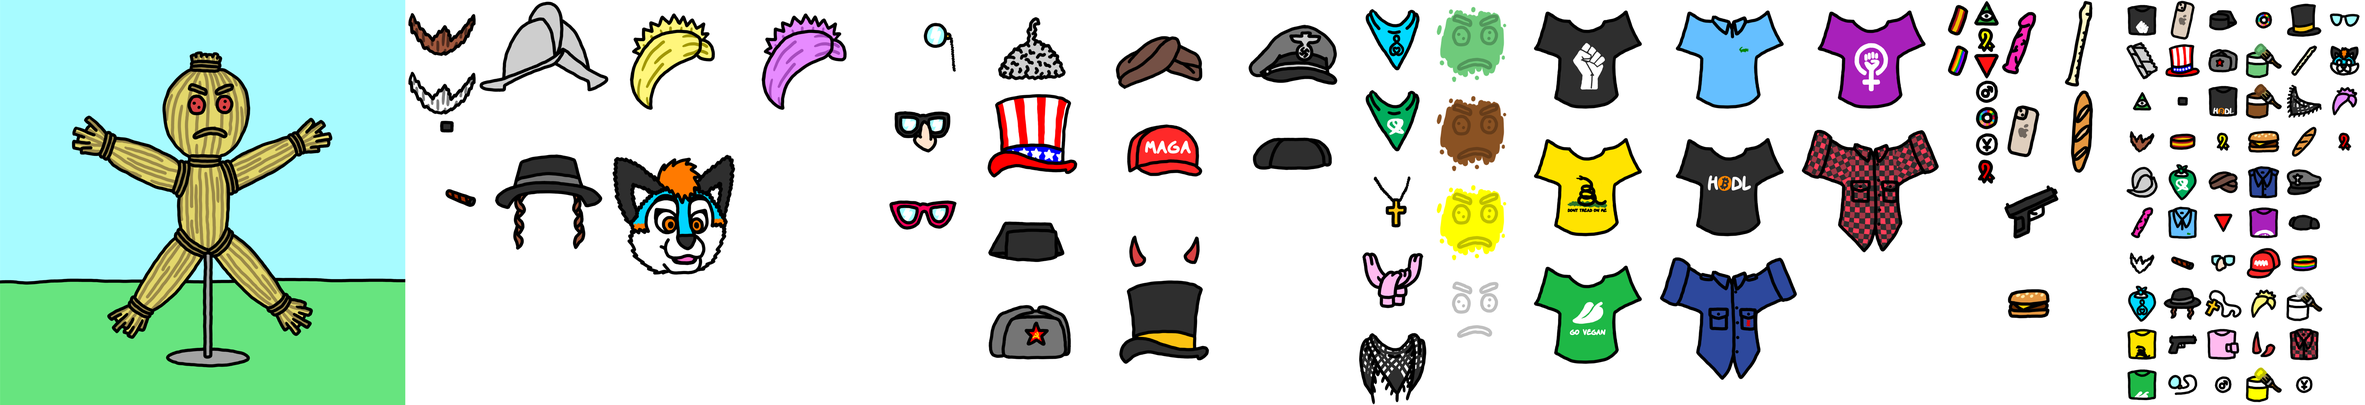
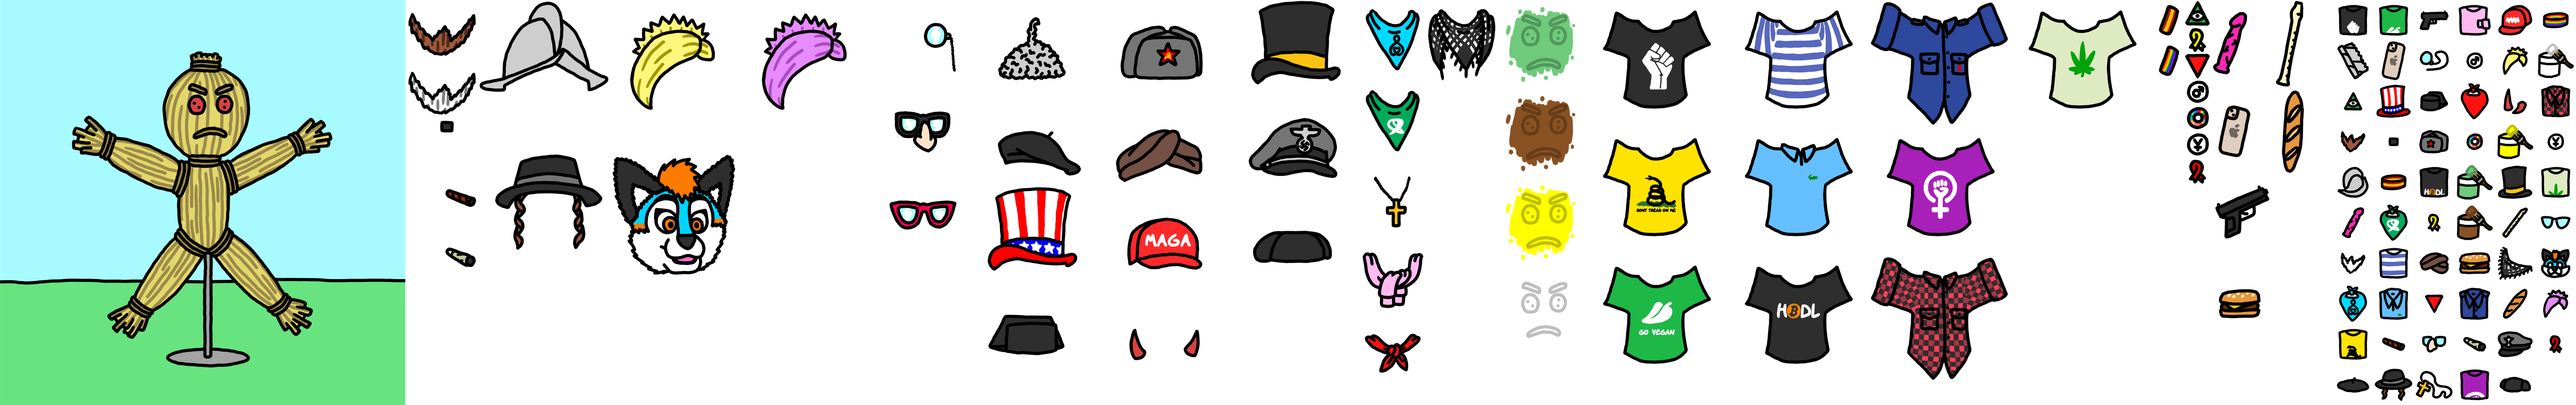
New accessories

diff --git a/docs/static/js/main.47056a48.chunk.js b/docs/static/js/main.47056a48.chunk.js
@@ -1,0 +1,2 @@
+(this.webpackJsonpstrawman=this.webpackJsonpstrawman||[]).push([[0],[,function(e){e.exports=JSON.parse('{"2030":{"en":"2030","es":"2030"},"loading":{"en":"loading","es":"cargando"},"make":{"en":"make your own","es":"crea tu propio"},"by":{"en":"by","es":"por"},"make_at":{"en":"make your own at","es":"crea el tuyo propio en"},"strawman":{"en":"straw man","es":"hombre de paja"},"download":{"en":"download","es":"descargar"},"accessories":{"en":"accessories","es":"accesorios"},"head":{"en":"head","es":"cabeza"},"color":{"en":"skin color","es":"tono de piel"},"glasses":{"en":"glasses","es":"gafas"},"neck":{"en":"neck","es":"cuello"},"bracelets":{"en":"bracelets","es":"pulseras"},"badges":{"en":"badges","es":"pines"},"hand":{"en":"hand","es":"mano"},"chest":{"en":"chest","es":"pecho"},"mouth":{"en":"mouth","es":"boca"},"spain":{"en":"Spain","es":"Espa\xf1a"},"lgbt":{"en":"LGBTIQ+","es":"LGBTIQ+"},"illuminati":{"en":"Illuminati","es":"Illuminati"},"yunque":{"en":"El Yunque","es":"El Yunque"},"male":{"en":"male","es":"hombre"},"red_triangle":{"en":"red triangle","es":"tri\xe1ngulo rojo"},"red_ribbon":{"en":"red ribbon","es":"lazo rojo"},"yellow_ribbon":{"en":"yellow ribbon","es":"lazo amarillo"},"prochoice":{"en":"pro-choice kerchief","es":"pa\xf1uelo abortero"},"prolife":{"en":"pro-life kerchief","es":"pa\xf1uelo provida"},"cross":{"en":"cross necklace","es":"colgante con cruz"},"nose":{"en":"glasses with nose","es":"gafas con nariz"},"cat_eye":{"en":"cat eye glasses","es":"gafas de ojo de gato"},"monocle":{"en":"monocle","es":"mon\xf3culo"},"green":{"en":"green","es":"verde"},"white":{"en":"white","es":"blanco"},"yellow":{"en":"yellow","es":"amarillo"},"brown":{"en":"brown","es":"marr\xf3n"},"morion":{"en":"morion","es":"morri\xf3n"},"turban":{"en":"turban","es":"turbante"},"sideburns":{"en":"hat with sideburns","es":"gorro con patillas"},"commie":{"en":"communist hat","es":"gorro comunista"},"top":{"en":"top hat","es":"chistera"},"nazi":{"en":"nazi hat","es":"gorra nazi"},"maga":{"en":"MAGA hat","es":"gorra MAGA"},"tricornio":{"en":"tricornio","es":"tricornio"},"montera":{"en":"montera","es":"montera"},"pink_hair":{"en":"pink hair","es":"pelo rosa"},"blond_hair":{"en":"blond hair","es":"pelo rubio"},"horns":{"en":"horns","es":"cuernos"},"furry":{"en":"furry mask","es":"m\xe1scara de furro"},"keffiyeh":{"en":"Palestinian keffiyeh","es":"palestina"},"sweater":{"en":"sweater","es":"jersey"},"tinfoil":{"en":"tinfoil","es":"papel de aluminio"},"flute":{"en":"flute","es":"flauta"},"dildo":{"en":"dildo","es":"consolador"},"gun":{"en":"gun","es":"pistola"},"iphone":{"en":"iPhone","es":"iPhone"},"blue_shirt":{"en":"blue shirt","es":"camisa azul"},"lumberjack":{"en":"lumberjack shirt","es":"camisa le\xf1ador"},"blm":{"en":"BLM T-shirt","es":"camiseta BLM"},"gadsden":{"en":"Gadsden T-shirt","es":"camiseta Gadsden"},"polo":{"en":"polo shirt","es":"polo"},"vegan":{"en":"vegan T-shirt","es":"camiseta vegana"},"feminism":{"en":"feminist T-shirt","es":"camiseta feminista"},"bitcoin":{"en":"Bitcoin T-shirt","es":"camiseta de Bitcoin"},"chaplin":{"en":"Chaplin moustache","es":"bigote de Chaplin"},"brown_beard":{"en":"brown beard","es":"barba casta\xf1a"},"white_beard":{"en":"white beard","es":"barba blanca"},"sam":{"en":"Uncle Sam\'s hat","es":"chistera del T\xedo Sam"},"cigar":{"en":"cigar","es":"puro"},"burger":{"en":"burger","es":"hamburguesa"},"baguette":{"en":"baguette","es":"baguette"},"beret":{"en":"beret","es":"boina"},"kerchief":{"en":"kerchief","es":"pa\xf1uelo"},"joint":{"en":"joint","es":"porro"},"striped":{"en":"striped T-shirt","es":"camiseta de rayas"},"weed":{"en":"weed T-shirt","es":"camiseta mar\xeda"}}')},,,,,,,,,function(e){e.exports=JSON.parse('{"chest":{"lumberjack":{"w":350,"h":315,"x":4610,"t":{"w":100,"h":100,"x":6255,"y":200},"y":630},"bitcoin":{"w":350,"h":315,"x":4260,"t":{"w":100,"h":100,"x":5955,"y":400},"y":630},"polo":{"w":350,"h":315,"x":4260,"t":{"w":100,"h":100,"x":5855,"y":700},"y":315},"feminism":{"w":350,"h":315,"x":4610,"t":{"w":100,"h":100,"x":6055,"y":900},"y":315},"blue_shirt":{"w":350,"h":315,"x":4610,"t":{"w":100,"h":100,"x":6055,"y":700},"y":0},"vegan":{"w":350,"h":315,"x":3910,"t":{"w":100,"h":100,"x":5855,"y":0},"y":630},"weed":{"w":350,"h":315,"x":4960,"t":{"w":100,"h":100,"x":6255,"y":400},"y":0},"blm":{"w":350,"h":315,"x":3910,"t":{"w":100,"h":100,"x":5755,"y":0},"y":0},"gadsden":{"w":350,"h":315,"x":3910,"t":{"w":100,"h":100,"x":5755,"y":800},"y":315},"striped":{"w":350,"h":315,"x":4260,"t":{"w":100,"h":100,"x":5855,"y":600},"y":0}},"head2":{"sideburns":{"w":325,"h":340,"x":1180,"t":{"w":100,"h":100,"x":5855,"y":900},"y":340},"blond_hair":{"w":325,"h":340,"x":1505,"t":{"w":100,"h":100,"x":6155,"y":100},"y":0},"morion":{"w":325,"h":340,"x":1180,"t":{"w":100,"h":100,"x":5755,"y":400},"y":0},"furry":{"w":325,"h":340,"x":1505,"t":{"w":100,"h":100,"x":6255,"y":600},"y":340},"pink_hair":{"w":325,"h":340,"x":1830,"t":{"w":100,"h":100,"x":6255,"y":700},"y":0}},"hand":{"baguette":{"w":150,"h":220,"x":5605,"t":{"w":100,"h":100,"x":6155,"y":700},"y":220},"flute":{"w":150,"h":220,"x":5605,"t":{"w":100,"h":100,"x":6155,"y":500},"y":0},"iphone":{"w":150,"h":220,"x":5455,"t":{"w":100,"h":100,"x":5855,"y":100},"y":220},"burger":{"w":150,"h":220,"x":5455,"t":{"w":100,"h":100,"x":6055,"y":600},"y":660},"dildo":{"w":150,"h":220,"x":5455,"t":{"w":100,"h":100,"x":5755,"y":500},"y":0},"gun":{"w":150,"h":220,"x":5455,"t":{"w":100,"h":100,"x":5955,"y":0},"y":440}},"badges":{"2030":{"w":65,"h":65,"x":5390,"t":{"w":100,"h":100,"x":6055,"y":300},"y":260},"male":{"w":65,"h":65,"x":5390,"t":{"w":100,"h":100,"x":6055,"y":100},"y":195},"red_triangle":{"w":65,"h":65,"x":5390,"t":{"w":100,"h":100,"x":5955,"y":700},"y":130},"yunque":{"w":65,"h":65,"x":5390,"t":{"w":100,"h":100,"x":6255,"y":300},"y":325},"illuminati":{"w":65,"h":65,"x":5390,"t":{"w":100,"h":100,"x":5755,"y":200},"y":0},"yellow_ribbon":{"w":65,"h":65,"x":5390,"t":{"w":100,"h":100,"x":5955,"y":500},"y":65},"red_ribbon":{"w":65,"h":65,"x":5390,"t":{"w":100,"h":100,"x":6255,"y":800},"y":390}},"neck":{"sweater":{"w":170,"h":200,"x":3350,"t":{"w":100,"h":100,"x":6055,"y":0},"y":600},"kerchief":{"w":170,"h":200,"x":3350,"t":{"w":100,"h":100,"x":6055,"y":200},"y":800},"prochoice":{"w":170,"h":200,"x":3350,"t":{"w":100,"h":100,"x":5855,"y":500},"y":200},"keffiyeh":{"w":170,"h":200,"x":3520,"t":{"w":100,"h":100,"x":6155,"y":600},"y":0},"cross":{"w":170,"h":200,"x":3350,"t":{"w":100,"h":100,"x":5955,"y":900},"y":400},"prolife":{"w":170,"h":200,"x":3350,"t":{"w":100,"h":100,"x":5755,"y":700},"y":0}},"bracelets":{"lgbt":{"w":80,"h":100,"x":5310,"t":{"w":100,"h":100,"x":6255,"y":0},"y":100},"spain":{"w":80,"h":100,"x":5310,"t":{"w":100,"h":100,"x":5855,"y":400},"y":0}},"mouth":{"white_beard":{"w":180,"h":145,"x":1000,"t":{"w":100,"h":100,"x":5755,"y":600},"y":145},"joint":{"w":180,"h":145,"x":1000,"t":{"w":100,"h":100,"x":6055,"y":800},"y":580},"brown_beard":{"w":180,"h":145,"x":1000,"t":{"w":100,"h":100,"x":5755,"y":300},"y":0},"cigar":{"w":180,"h":145,"x":1000,"t":{"w":100,"h":100,"x":5855,"y":800},"y":435},"chaplin":{"w":180,"h":145,"x":1000,"t":{"w":100,"h":100,"x":5855,"y":300},"y":290}},"head":{"turban":{"w":325,"h":230,"x":2700,"t":{"w":100,"h":100,"x":5955,"y":600},"y":230},"tricornio":{"w":325,"h":230,"x":2375,"t":{"w":100,"h":100,"x":5955,"y":200},"y":690},"tinfoil":{"w":325,"h":230,"x":2375,"t":{"w":100,"h":100,"x":5755,"y":100},"y":0},"beret":{"w":325,"h":230,"x":2375,"t":{"w":100,"h":100,"x":5755,"y":900},"y":230},"sam":{"w":325,"h":230,"x":2375,"t":{"w":100,"h":100,"x":5855,"y":200},"y":460},"commie":{"w":325,"h":230,"x":2700,"t":{"w":100,"h":100,"x":5955,"y":300},"y":0},"maga":{"w":325,"h":230,"x":2700,"t":{"w":100,"h":100,"x":6155,"y":0},"y":460},"horns":{"w":325,"h":230,"x":2700,"t":{"w":100,"h":100,"x":6155,"y":200},"y":690},"montera":{"w":325,"h":230,"x":3025,"t":{"w":100,"h":100,"x":6155,"y":900},"y":460},"nazi":{"w":325,"h":230,"x":3025,"t":{"w":100,"h":100,"x":6155,"y":800},"y":230},"top":{"w":325,"h":230,"x":3025,"t":{"w":100,"h":100,"x":6155,"y":400},"y":0}},"glasses":{"monocle":{"w":220,"h":220,"x":2155,"t":{"w":100,"h":100,"x":5955,"y":100},"y":0},"cat_eye":{"w":220,"h":220,"x":2155,"t":{"w":100,"h":100,"x":6255,"y":500},"y":440},"nose":{"w":220,"h":220,"x":2155,"t":{"w":100,"h":100,"x":5955,"y":800},"y":220}},"color":{"yellow":{"w":220,"h":220,"x":3690,"t":{"w":100,"h":100,"x":6155,"y":300},"y":440},"white":{"w":220,"h":220,"x":3690,"t":{"w":100,"h":100,"x":6255,"y":100},"y":660},"brown":{"w":220,"h":220,"x":3690,"t":{"w":100,"h":100,"x":6055,"y":500},"y":220},"green":{"w":220,"h":220,"x":3690,"t":{"w":100,"h":100,"x":6055,"y":400},"y":0}},"strawman":{"w":1000,"h":1000,"x":0,"y":0}}')},,,,function(e){e.exports=JSON.parse('{"head":{"x":340,"y":10,"w":325,"h":230,"z":8},"head2":{"x":340,"y":55,"w":325,"h":340,"z":8},"color":{"x":400,"y":170,"w":220,"h":220,"z":5},"mouth":{"x":420,"y":280,"w":180,"h":145,"z":6},"glasses":{"x":400,"y":170,"w":220,"h":220,"z":7},"neck":{"x":420,"y":355,"w":170,"h":200,"z":1},"bracelets":{"x":225,"y":310,"w":80,"h":100,"z":2},"badges":{"x":515,"y":395,"w":65,"h":65,"z":3},"hand":{"x":715,"y":230,"w":150,"h":220,"z":4},"chest":{"x":330,"y":345,"w":350,"h":315,"z":0}}')},,,,,,function(e,t,a){},function(e,t,a){},function(e,t,a){},,function(e,t,a){},function(e,t,a){},function(e,t,a){"use strict";a.r(t);var n=a(2),s=a.n(n),r=a(12),i=a.n(r),o=(a(20),a(11)),h=a(3),c=a(4),l=a(6),w=a(5),d=(a(21),a(15)),y=a(13),x=(a(22),function e(t){Object(h.a)(this,e),this.x=t.x,this.y=t.y,this.w=t.w,this.h=t.h}),u=function e(t,a,n,s){Object(h.a)(this,e),this.selected=!1,this.name=t,this.category=a,this.origin=new x(n),this.destination=new x(s),this.order=s.z,this.thumbnail=new x(n.t)},p=a(1),m=a(0),b=function(e){Object(l.a)(a,e);var t=Object(w.a)(a);function a(e){var s;return Object(h.a)(this,a),(s=t.call(this,e)).side=s.props.strawman.h,s.canvas=Object(n.createRef)(),s.maxScaleFactor=.7,s.state={scaleFactor:s.getScaleFactor()},s}return Object(c.a)(a,[{key:"componentDidMount",value:function(){var e=this;window.addEventListener("resize",(function(){e.setState({scaleFactor:e.getScaleFactor()})})),this.drawCanvas()}},{key:"componentDidUpdate",value:function(){this.drawCanvas()}},{key:"render",value:function(){var e=this;return Object(m.jsxs)("div",{className:"canvas-component",children:[Object(m.jsxs)("h1",{children:[Object(m.jsx)("div",{children:p.make[this.props.lang].capitalize()}),Object(m.jsx)("div",{children:p.strawman[this.props.lang].toUpperCase()}),Object(m.jsxs)("div",{children:[p.by[this.props.lang]," ",Object(m.jsx)("a",{href:"/",target:"_blank",children:"progredemente"})]})]}),Object(m.jsx)("canvas",{ref:this.canvas,width:this.side*this.state.scaleFactor,height:this.side*this.state.scaleFactor}),Object(m.jsx)("div",{className:"download",onClick:function(){e.downloadImage()},children:p.download[this.props.lang].capitalize()})]})}},{key:"drawCanvas",value:function(){var e=this.getTempCanvas(),t=this.canvas.current.getContext("2d");t.clearRect(0,0,this.side*this.state.scaleFactor,this.side*this.state.scaleFactor),t.drawImage(e,0,0,this.side*this.state.scaleFactor,this.side*this.state.scaleFactor)}},{key:"getTempCanvas",value:function(){var e=document.createElement("canvas");e.width=this.side,e.height=this.side;var t=e.getContext("2d");return this.drawImage(this.props.strawman,this.props.strawman,t),this.drawWardrobe(this.props.wardrobe,t),this.drawUrl(t),e}},{key:"drawWardrobe",value:function(e,t){var a,n=Object(y.a)(this.getClothes(e).sort((function(e,t){return e.order-t.order})));try{for(n.s();!(a=n.n()).done;){var s=a.value;this.drawImage(s.origin,s.destination,t)}}catch(r){n.e(r)}finally{n.f()}}},{key:"getClothes",value:function(e){var t=[];for(var a in e)e[a]instanceof u?e[a].selected&&t.push(e[a]):t.push.apply(t,Object(d.a)(this.getClothes(e[a])));return t}},{key:"drawImage",value:function(e,t,a){a.drawImage(this.props.img,e.x,e.y,e.w,e.h,t.x,t.y,t.w,t.h)}},{key:"drawUrl",value:function(e){e.font="40px ComicTypo",e.textAlign="center",e.globalAlpha=.25,e.fillText(p.make_at[this.props.lang].capitalize(),this.side/2,this.side-60),e.globalAlpha=.5,e.fillText("progredemente.com/strawman",this.side/2,this.side-20)}},{key:"downloadImage",value:function(){var e=document.createElement("a");e.download="strawman.png",this.getTempCanvas().toBlob((function(t){var a=URL.createObjectURL(t);e.href=a,e.click()}))}},{key:"getScaleFactor",value:function(){return window.innerWidth<this.side*this.maxScaleFactor?window.innerWidth/this.side:this.maxScaleFactor}}]),a}(n.Component),g=(a(24),a(25),function(e){Object(l.a)(a,e);var t=Object(w.a)(a);function a(){return Object(h.a)(this,a),t.apply(this,arguments)}return Object(c.a)(a,[{key:"render",value:function(){var e=this;return Object(m.jsxs)("div",{className:"garment".concat(this.props.garment.selected?" selected":""),onClick:function(){e.props.selectGarment(e.props.garment)},children:[Object(m.jsx)("img",{src:"./merge.png",style:{"--x":"".concat(this.props.garment.thumbnail.x,"px"),"--y":"".concat(this.props.garment.thumbnail.y,"px"),"--w":"".concat(this.props.garment.thumbnail.w,"px"),"--h":"".concat(this.props.garment.thumbnail.h,"px")},alt:p[this.props.garment.name][this.props.lang]}),Object(m.jsx)("figcaption",{children:p[this.props.garment.name][this.props.lang]})]})}}]),a}(n.Component)),f=g,j=function(e){Object(l.a)(a,e);var t=Object(w.a)(a);function a(){return Object(h.a)(this,a),t.apply(this,arguments)}return Object(c.a)(a,[{key:"render",value:function(){var e=this;return Object(m.jsxs)("div",{className:"wardrobe",children:[Object(m.jsx)("h1",{children:p.accessories[this.props.lang].capitalize()}),Object.keys(this.props.wardrobe).map((function(t){return Object(m.jsxs)("div",{className:"category",children:[Object(m.jsx)("span",{children:p[t][e.props.lang].capitalize()}),Object(m.jsx)("div",{className:"content",children:Object.keys(e.props.wardrobe[t]).map((function(a){return Object(m.jsx)(f,{garment:e.props.wardrobe[t][a],selectGarment:e.props.selectGarment,lang:e.props.lang},a)}))})]},t)}))]})}}]),a}(n.Component),v=j,O=a(10),k=a(14),z=function(e){Object(l.a)(a,e);var t=Object(w.a)(a);function a(e){var n,s;Object(h.a)(this,a),(n=t.call(this,e)).selectGarment=function(e){if(!e.selected)for(var t in e.category){var a=e.category[t];a!==e&&(a.selected=!1)}e.selected=!e.selected,n.setState({})};try{s=navigator.language.toLowerCase().split("-")[0]}catch(r){}return["en","es"].includes(s)||(s="en"),n.state={wardrobe:n.getWardrobe(O,k),lang:s,loaded:!1},n}return Object(c.a)(a,[{key:"componentDidMount",value:function(){var e=this;this.img=new Image,this.img.src="./merge.png",this.img.onload=function(){e.setState({loaded:!0})}}},{key:"joinCategories",value:function(e,t,a){for(var n in e[t]=Object(o.a)(Object(o.a)({},e[t]),e[a]),delete e[a],e[t])e[t][n].category=e[t]}},{key:"getWardrobe",value:function(e,t){var a={};for(var n in e)if("strawman"!==n)for(var s in a[n]={},e[n])a[n][s]=new u(s,a[n],e[n][s],t[n]);return this.joinCategories(a,"head","head2"),console.log(a),a}},{key:"render",value:function(){return Object(m.jsxs)(m.Fragment,{children:[this.state.loaded&&Object(m.jsxs)("div",{className:"app",children:[Object(m.jsx)(b,{wardrobe:this.state.wardrobe,strawman:new x(O.strawman),lang:this.state.lang,img:this.img}),Object(m.jsx)(v,{wardrobe:this.state.wardrobe,selectGarment:this.selectGarment,lang:this.state.lang})]}),!this.state.loaded&&Object(m.jsxs)("div",{className:"loading",children:[Object(m.jsx)("img",{src:"./favicon.png",alt:p.loading[this.state.lang]}),p.loading[this.state.lang]]})]})}}]),a}(n.Component),C=function(e){e&&e instanceof Function&&a.e(3).then(a.bind(null,27)).then((function(t){var a=t.getCLS,n=t.getFID,s=t.getFCP,r=t.getLCP,i=t.getTTFB;a(e),n(e),s(e),r(e),i(e)}))};String.prototype.capitalize=function(){return this[0].toUpperCase()+this.substr(1,this.length)},i.a.render(Object(m.jsx)(s.a.StrictMode,{children:Object(m.jsx)(z,{})}),document.getElementById("root")),C()}],[[26,1,2]]]);
+//# sourceMappingURL=main.47056a48.chunk.js.map

diff --git a/docs/index.html b/docs/index.html
@@ -1,1 +1,1 @@
-<!doctype html><html lang="en"><head><script async src="https://www.googletagmanager.com/gtag/js?id=G-Y5CBECWJKM"></script><script>function gtag(){dataLayer.push(arguments)}window.dataLayer=window.dataLayer||[],gtag("js",new Date),gtag("config","G-Y5CBECWJKM",{send_page_view:!1}),gtag("event","page_view",{page_title:"strawman"})</script><meta charset="utf-8"/><link rel="icon" href="./favicon.png"/><meta name="viewport" content="width=device-width,initial-scale=1"/><meta name="theme-color" content="#000000"/><meta name="description" content="Web site created using create-react-app"/><link rel="apple-touch-icon" href="./logo192.png"/><link rel="manifest" href="./manifest.json"/><title>Straw man</title><link href="./static/css/main.2544bd09.chunk.css" rel="stylesheet"></head><body><noscript>You need to enable JavaScript to run this app.</noscript><div id="root"></div><script>!function(e){function r(r){for(var n,u,i=r[0],c=r[1],l=r[2],s=0,p=[];s<i.length;s++)u=i[s],Object.prototype.hasOwnProperty.call(o,u)&&o[u]&&p.push(o[u][0]),o[u]=0;for(n in c)Object.prototype.hasOwnProperty.call(c,n)&&(e[n]=c[n]);for(f&&f(r);p.length;)p.shift()();return a.push.apply(a,l||[]),t()}function t(){for(var e,r=0;r<a.length;r++){for(var t=a[r],n=!0,i=1;i<t.length;i++){var c=t[i];0!==o[c]&&(n=!1)}n&&(a.splice(r--,1),e=u(u.s=t[0]))}return e}var n={},o={1:0},a=[];function u(r){if(n[r])return n[r].exports;var t=n[r]={i:r,l:!1,exports:{}};return e[r].call(t.exports,t,t.exports,u),t.l=!0,t.exports}u.e=function(e){var r=[],t=o[e];if(0!==t)if(t)r.push(t[2]);else{var n=new Promise((function(r,n){t=o[e]=[r,n]}));r.push(t[2]=n);var a,i=document.createElement("script");i.charset="utf-8",i.timeout=120,u.nc&&i.setAttribute("nonce",u.nc),i.src=function(e){return u.p+"static/js/"+({}[e]||e)+"."+{3:"adbab9fa"}[e]+".chunk.js"}(e);var c=new Error;a=function(r){i.onerror=i.onload=null,clearTimeout(l);var t=o[e];if(0!==t){if(t){var n=r&&("load"===r.type?"missing":r.type),a=r&&r.target&&r.target.src;c.message="Loading chunk "+e+" failed.\n("+n+": "+a+")",c.name="ChunkLoadError",c.type=n,c.request=a,t[1](c)}o[e]=void 0}};var l=setTimeout((function(){a({type:"timeout",target:i})}),12e4);i.onerror=i.onload=a,document.head.appendChild(i)}return Promise.all(r)},u.m=e,u.c=n,u.d=function(e,r,t){u.o(e,r)||Object.defineProperty(e,r,{enumerable:!0,get:t})},u.r=function(e){"undefined"!=typeof Symbol&&Symbol.toStringTag&&Object.defineProperty(e,Symbol.toStringTag,{value:"Module"}),Object.defineProperty(e,"__esModule",{value:!0})},u.t=function(e,r){if(1&r&&(e=u(e)),8&r)return e;if(4&r&&"object"==typeof e&&e&&e.__esModule)return e;var t=Object.create(null);if(u.r(t),Object.defineProperty(t,"default",{enumerable:!0,value:e}),2&r&&"string"!=typeof e)for(var n in e)u.d(t,n,function(r){return e[r]}.bind(null,n));return t},u.n=function(e){var r=e&&e.__esModule?function(){return e.default}:function(){return e};return u.d(r,"a",r),r},u.o=function(e,r){return Object.prototype.hasOwnProperty.call(e,r)},u.p="./",u.oe=function(e){throw console.error(e),e};var i=this.webpackJsonpstrawman=this.webpackJsonpstrawman||[],c=i.push.bind(i);i.push=r,i=i.slice();for(var l=0;l<i.length;l++)r(i[l]);var f=c;t()}([])</script><script src="./static/js/2.2e0816a8.chunk.js"></script><script src="./static/js/main.babe8f4f.chunk.js"></script></body></html>
+<!doctype html><html lang="en"><head><script async src="https://www.googletagmanager.com/gtag/js?id=G-Y5CBECWJKM"></script><script>function gtag(){dataLayer.push(arguments)}window.dataLayer=window.dataLayer||[],gtag("js",new Date),gtag("config","G-Y5CBECWJKM",{send_page_view:!1}),gtag("event","page_view",{page_title:"strawman"})</script><meta charset="utf-8"/><link rel="icon" href="./favicon.png"/><meta name="viewport" content="width=device-width,initial-scale=1"/><meta name="theme-color" content="#000000"/><meta name="description" content="Web site created using create-react-app"/><link rel="apple-touch-icon" href="./logo192.png"/><link rel="manifest" href="./manifest.json"/><title>Straw man</title><link href="./static/css/main.2544bd09.chunk.css" rel="stylesheet"></head><body><noscript>You need to enable JavaScript to run this app.</noscript><div id="root"></div><script>!function(e){function r(r){for(var n,u,i=r[0],c=r[1],l=r[2],s=0,p=[];s<i.length;s++)u=i[s],Object.prototype.hasOwnProperty.call(o,u)&&o[u]&&p.push(o[u][0]),o[u]=0;for(n in c)Object.prototype.hasOwnProperty.call(c,n)&&(e[n]=c[n]);for(f&&f(r);p.length;)p.shift()();return a.push.apply(a,l||[]),t()}function t(){for(var e,r=0;r<a.length;r++){for(var t=a[r],n=!0,i=1;i<t.length;i++){var c=t[i];0!==o[c]&&(n=!1)}n&&(a.splice(r--,1),e=u(u.s=t[0]))}return e}var n={},o={1:0},a=[];function u(r){if(n[r])return n[r].exports;var t=n[r]={i:r,l:!1,exports:{}};return e[r].call(t.exports,t,t.exports,u),t.l=!0,t.exports}u.e=function(e){var r=[],t=o[e];if(0!==t)if(t)r.push(t[2]);else{var n=new Promise((function(r,n){t=o[e]=[r,n]}));r.push(t[2]=n);var a,i=document.createElement("script");i.charset="utf-8",i.timeout=120,u.nc&&i.setAttribute("nonce",u.nc),i.src=function(e){return u.p+"static/js/"+({}[e]||e)+"."+{3:"adbab9fa"}[e]+".chunk.js"}(e);var c=new Error;a=function(r){i.onerror=i.onload=null,clearTimeout(l);var t=o[e];if(0!==t){if(t){var n=r&&("load"===r.type?"missing":r.type),a=r&&r.target&&r.target.src;c.message="Loading chunk "+e+" failed.\n("+n+": "+a+")",c.name="ChunkLoadError",c.type=n,c.request=a,t[1](c)}o[e]=void 0}};var l=setTimeout((function(){a({type:"timeout",target:i})}),12e4);i.onerror=i.onload=a,document.head.appendChild(i)}return Promise.all(r)},u.m=e,u.c=n,u.d=function(e,r,t){u.o(e,r)||Object.defineProperty(e,r,{enumerable:!0,get:t})},u.r=function(e){"undefined"!=typeof Symbol&&Symbol.toStringTag&&Object.defineProperty(e,Symbol.toStringTag,{value:"Module"}),Object.defineProperty(e,"__esModule",{value:!0})},u.t=function(e,r){if(1&r&&(e=u(e)),8&r)return e;if(4&r&&"object"==typeof e&&e&&e.__esModule)return e;var t=Object.create(null);if(u.r(t),Object.defineProperty(t,"default",{enumerable:!0,value:e}),2&r&&"string"!=typeof e)for(var n in e)u.d(t,n,function(r){return e[r]}.bind(null,n));return t},u.n=function(e){var r=e&&e.__esModule?function(){return e.default}:function(){return e};return u.d(r,"a",r),r},u.o=function(e,r){return Object.prototype.hasOwnProperty.call(e,r)},u.p="./",u.oe=function(e){throw console.error(e),e};var i=this.webpackJsonpstrawman=this.webpackJsonpstrawman||[],c=i.push.bind(i);i.push=r,i=i.slice();for(var l=0;l<i.length;l++)r(i[l]);var f=c;t()}([])</script><script src="./static/js/2.2e0816a8.chunk.js"></script><script src="./static/js/main.47056a48.chunk.js"></script></body></html>
